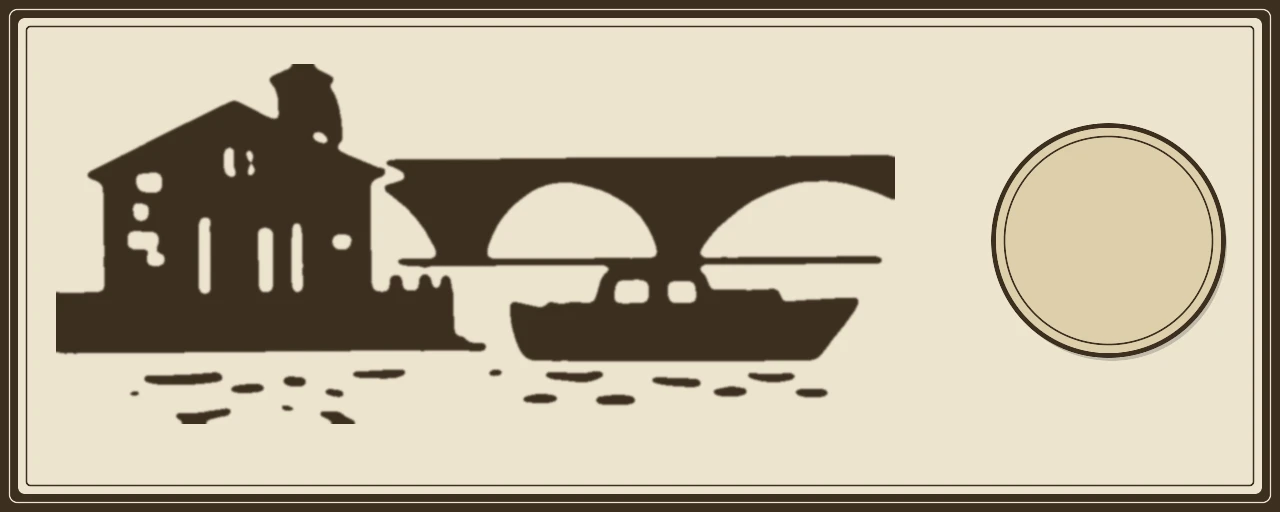
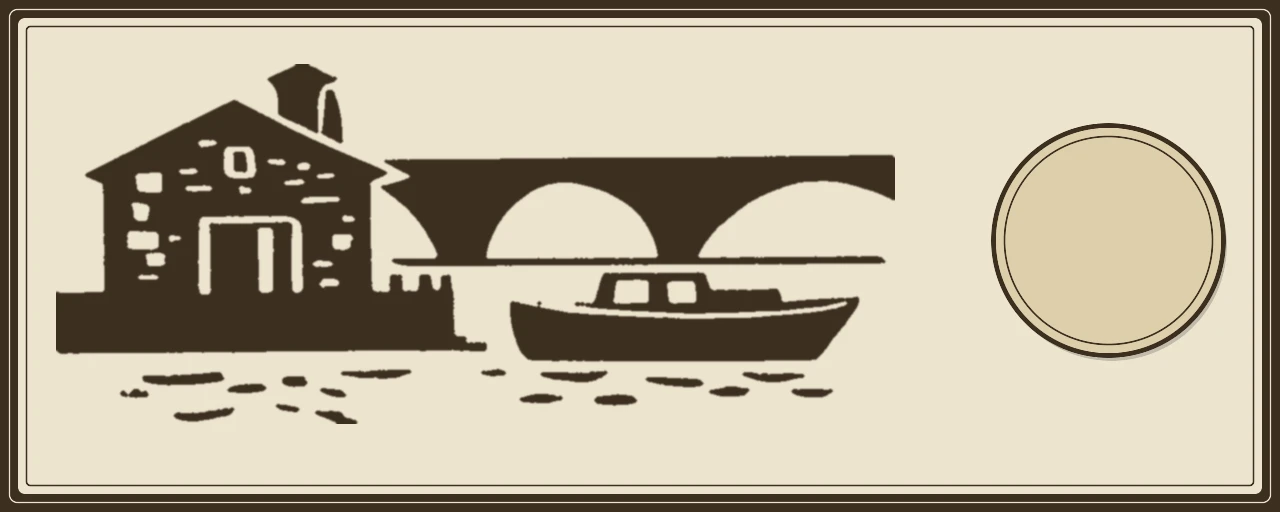
feat(merchants): Warrington's sign in the woodcut hand
Second sign redone: the crane and the narrowboat of Warrington. The
cleaning of the ink is lighter for the signs than for the tiles, so a
boat's gunwale and a crane's lattice survive; the script can cut inside
a border the stamp came with. Warrington takes the shared aspect and
medallion of the woodcut signs.

diff --git a/app/src/gl/houses.ts b/app/src/gl/houses.ts
@@ -5,7 +5,7 @@
    every sign is composed a little differently. */
 export const HOUSES: Record<string, { aspect: number; medal: [x: number, y: number, r: number] }> = {
   shrewsbury: { aspect: 2.5, medal: [0.866, 0.468, 0.09] },
-  warrington: { aspect: 2.924, medal: [0.865, 0.53, 0.08] },
+  warrington: { aspect: 2.5, medal: [0.866, 0.468, 0.09] },
   nottingham: { aspect: 2.525, medal: [0.845, 0.49, 0.1] },
   oxford: { aspect: 2.41, medal: [0.805, 0.5, 0.1] },
   gloucester: { aspect: 2.475, medal: [0.845, 0.44, 0.105] },
